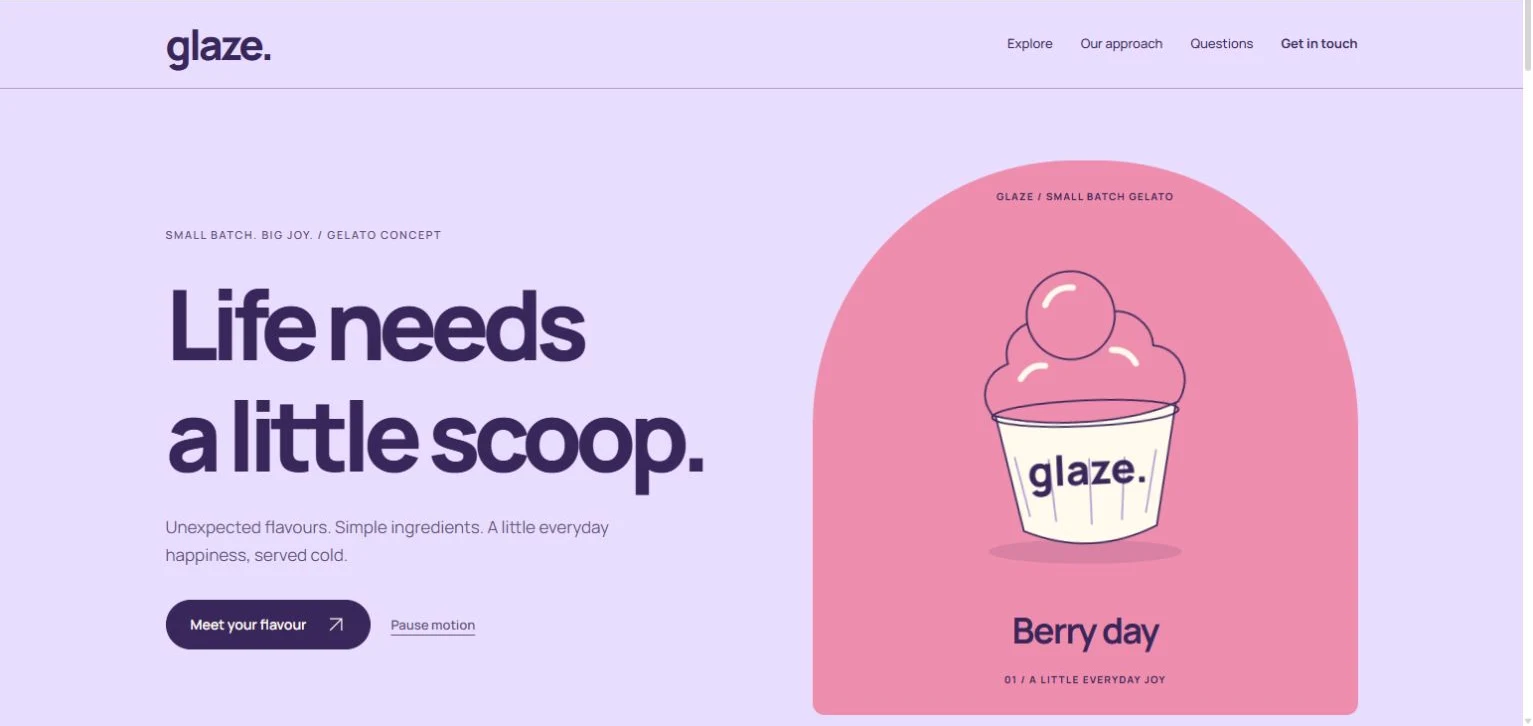
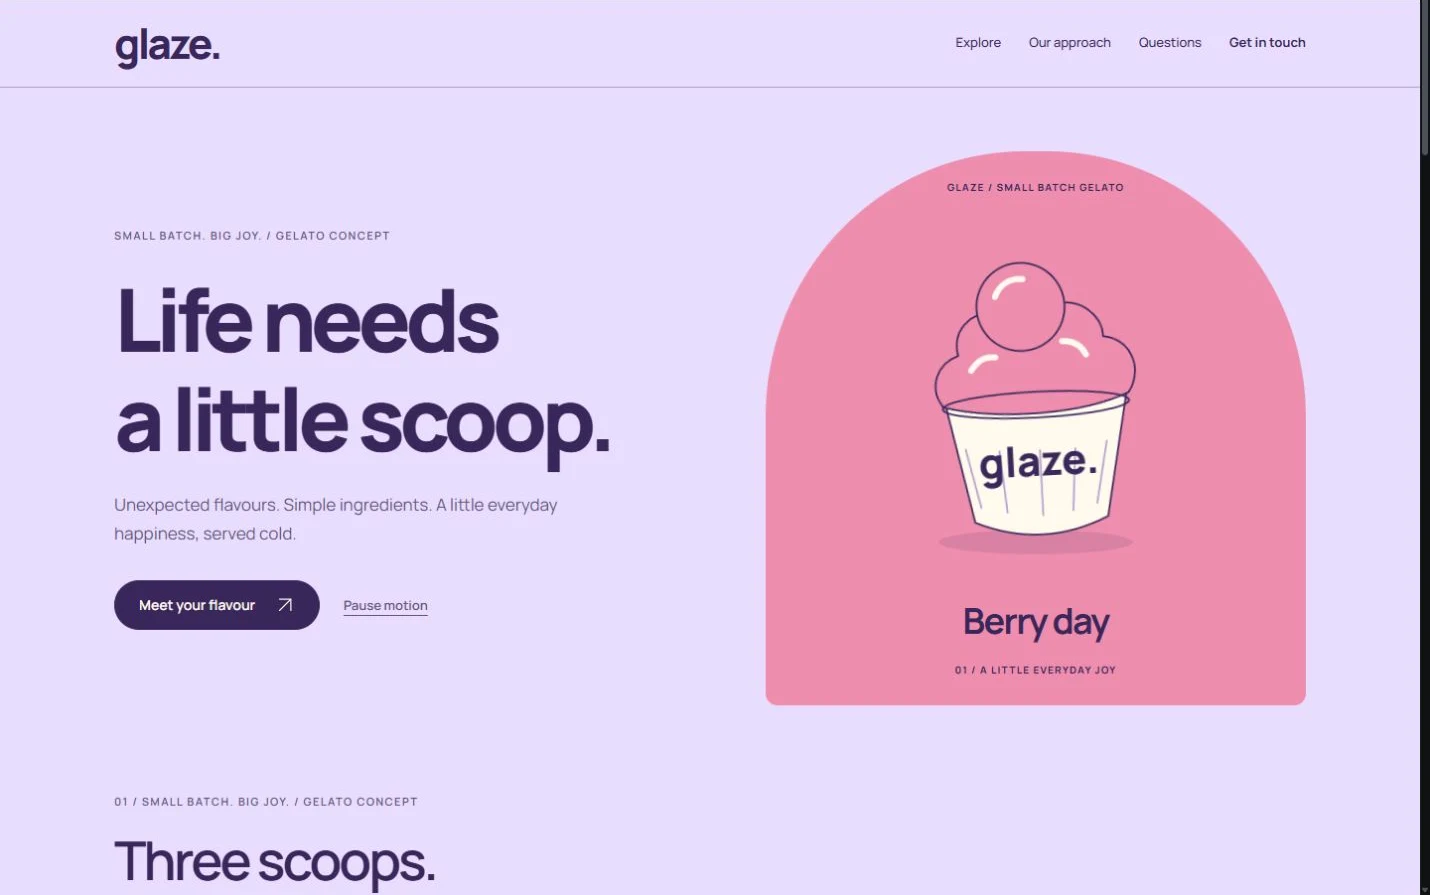
Polish Glaze and Transit spacing and responsive layouts

diff --git a/resources/css/pages/glaze-transit.css b/resources/css/pages/glaze-transit.css
@@ -2,8 +2,8 @@
 .animated-demo.cd-glaze { --ld-bg: #e8ddff; --ld-ink: #39265b; --ld-muted: #66537c; --ld-card: #dcc9f3; --ld-line: #b29ccf; --ld-accent: #39265b; --ld-on-accent: #fff9ee; --ld-hover: #543a7b; --nx-paper: #fff9ee; --nx-flavour: #ee8dad; }
 .animated-demo.cd-transit { --ld-bg: #f2f5f7; --ld-ink: #142d58; --ld-muted: #526783; --ld-card: #e2e9ef; --ld-line: #b7c6d6; --ld-accent: #d8f25b; --ld-on-accent: #142d58; --ld-hover: #e8ff85; --nx-paper: #f9fbff; --nx-navy: #142d58; --nx-muted-inverse: #c5d3e5; --nx-line-inverse: #526783; }
 .animated-demo.cd-glaze .ld-brand { font-size: 42px; font-weight: 800; }
-.animated-demo.cd-glaze .cd-hero { grid-template-columns: 1.1fr 1fr; gap: 48px; padding-block: 72px 96px; }
-.animated-demo.cd-glaze .cd-hero h1 { font-weight: 800; font-size: clamp(56px,7vw,98px); letter-spacing: -.075em; }
+.animated-demo.cd-glaze .cd-hero { grid-template-columns: minmax(0,1.1fr) minmax(0,1fr); gap: clamp(32px,4vw,64px); padding-block: 64px 48px; }
+.animated-demo.cd-glaze .cd-hero h1 { font-weight: 800; font-size: clamp(52px,6.6vw,88px); letter-spacing: -.065em; }
 .nx-gelato { position: relative; overflow: hidden; border-radius: 48% 48% 12px 12px; background: var(--nx-flavour); color: var(--ld-ink); text-align: center; padding: 28px 24px; }
 .nx-flavour-0 { --nx-flavour: #ee8dad; }
 .nx-flavour-1 { --nx-flavour: #b8cf8b; }
@@ -14,28 +14,30 @@
 .nx-flavour-caption { display: block; font-size: clamp(24px,3vw,36px); letter-spacing: -.045em; }
 .nx-gelato-foot { margin-top: 12px; }
 .nx-tasting > :is(h1,h2) { margin-block: 20px 44px; }
-.nx-flavour-cards { display: grid; grid-template-columns: repeat(3,minmax(0,1fr)); gap: 18px; }
-.nx-flavour-cards article { display: flex; flex-direction: column; align-items: start; background: var(--nx-flavour); padding: 30px; color: var(--ld-ink); border-radius: var(--radius-card); }
-.nx-flavour-number { font-size: 64px; line-height: 1.2; font-weight: 800; opacity: .4; }
+.nx-flavour-cards { display: grid; grid-template-columns: repeat(3,minmax(0,1fr)); gap: 24px; }
+.nx-flavour-cards article { min-width: 0; display: flex; flex-direction: column; align-items: start; background: var(--nx-flavour); padding: 32px; color: var(--ld-ink); border-radius: var(--radius-card); }
+.nx-flavour-number { font-size: 52px; line-height: 1.2; font-weight: 800; opacity: .4; }
 .nx-flavour-cards h3 { margin: 20px 0 16px; }
 .nx-flavour-cards p { color: var(--ld-ink); margin-bottom: 28px; }
 .nx-flavour-cards .ld-button { margin-top: auto; border-color: var(--ld-ink); }
 .nx-flavour-cards .ld-button[aria-pressed="true"] { background: var(--ld-ink); color: var(--nx-paper) !important; }
-.nx-tasting-result { display: grid; grid-template-columns: 1fr 1fr; align-items: center; gap: 80px; margin-top: 60px; }
-.nx-tasting-result .nx-gelato { max-width: 460px; }
-.nx-tasting-result h3 { font-size: 42px; margin-block: 18px; }
+.nx-tasting-result { display: grid; grid-template-columns: minmax(0,1fr) minmax(0,1fr); align-items: center; gap: clamp(32px,5vw,72px); margin-top: 48px; padding: 40px; border: 1px solid var(--ld-line); border-radius: var(--radius-card); }
+.nx-tasting-result > div { min-width: 0; }
+.nx-tasting-result .nx-gelato { width: 100%; max-width: 360px; margin-inline: auto; }
+.nx-tasting-result .nx-scoop { max-height: 280px; }
+.nx-tasting-result h3 { font-size: clamp(28px,3.2vw,40px); margin-block: 16px; }
 .nx-tasting-result p { margin-bottom: 28px; max-width: 430px; }
 .animated-demo.cd-glaze .cd-about { border-radius: 80px 80px 0 0; }
 /* Transit uses a horizontal dispatch canvas and an offset, two-column masthead. */
 .animated-demo.cd-transit .ld-brand { letter-spacing: -.06em; font-weight: 800; }
 .animated-demo.cd-transit .ld-button { border-radius: 3px; border-color: var(--ld-ink); }
 .animated-demo.cd-transit .cd-hero { grid-template-columns: 1fr; gap: 48px; padding-block: 64px 48px; }
-.animated-demo.cd-transit .cd-hero-copy { display: grid; grid-template-columns: 1.8fr 1fr; gap: 24px 64px; align-items: start; }
+.animated-demo.cd-transit .cd-hero-copy { display: grid; grid-template-columns: minmax(0,1.7fr) minmax(0,1fr); gap: 24px 56px; align-items: start; }
 .animated-demo.cd-transit .cd-hero-copy > .ld-kicker { grid-column: 1/-1; }
-.animated-demo.cd-transit .cd-hero h1 { grid-row: span 2; font-size: clamp(48px,5.6vw,76px); font-weight: 700; margin: 0; }
+.animated-demo.cd-transit .cd-hero h1 { grid-row: span 2; font-size: clamp(44px,5.2vw,72px); font-weight: 700; margin: 0; }
 .animated-demo.cd-transit .ld-hero-actions { margin-top: 0; gap: 16px; }
 .nx-dispatch { border: 1px solid var(--ld-line); background: var(--ld-card); overflow: hidden; }
-.nx-dispatch-meta, .nx-dispatch-bottom { display: flex; justify-content: space-between; align-items: center; flex-wrap: wrap; gap: 12px; padding: 20px 24px; font-size: 11px; font-weight: 600; letter-spacing: .05em; }
+.nx-dispatch-meta, .nx-dispatch-bottom { display: flex; justify-content: space-between; align-items: center; flex-wrap: wrap; gap: 12px 24px; padding: 20px 28px; font-size: 11px; font-weight: 600; letter-spacing: .05em; }
 .nx-dispatch-meta { background: var(--ld-ink); color: var(--nx-paper); }
 .nx-dispatch svg { width: 100%; display: block; }
 .nx-dispatch-bottom { border-top: 1px solid var(--ld-line); }
@@ -44,20 +46,37 @@
 .nx-mode-1 .nx-cargo { transform: translate(100px,80px); animation-name: nx-ocean; animation-duration: 16s; }
 .nx-mode-2 .nx-cargo { transform: translate(100px,160px); animation-name: nx-warehouse; animation-duration: 10s; }
 .nx-transport > :is(h1,h2) { margin-block: 20px 40px; }
-.nx-transport .nc-options { flex-direction: row; flex-wrap: wrap; gap: 0; border-bottom: 1px solid var(--ld-line); }
-.nx-transport .nc-options .ld-button { flex: 1 1 240px; border-radius: 0; padding-block: 22px; }
+.nx-transport .nc-options { display: grid; grid-template-columns: repeat(3,minmax(0,1fr)); gap: 12px; margin-bottom: 24px; }
+.nx-transport .nc-options .ld-button { min-width: 0; border-radius: 3px; padding: 18px 20px; gap: 16px; }
 .nx-transport .nc-options .ld-button[aria-pressed="true"] { color: var(--ld-ink) !important; border-color: var(--ld-ink); }
-.nx-transport-story { display: flex; align-items: center; justify-content: space-between; gap: 40px; margin-top: 36px; }
+.nx-transport-story { display: flex; align-items: center; justify-content: space-between; gap: 40px; margin-top: 28px; padding: 28px; border: 1px solid var(--ld-line); background: var(--nx-paper); }
 .nx-transport-story > div { max-width: 630px; }
 .nx-transport-story h3 { margin-bottom: 16px; }
 .nx-transport-story > .ld-button { flex-shrink: 0; }
-.animated-demo.cd-transit .cd-about { background: var(--nx-navy); --ld-ink: var(--nx-paper); --ld-muted: var(--nx-muted-inverse); --ld-line: var(--nx-line-inverse); }
+.animated-demo.cd-transit .cd-about { background: var(--nx-navy); color: var(--nx-paper); --ld-ink: var(--nx-paper); --ld-muted: var(--nx-muted-inverse); --ld-line: var(--nx-line-inverse); }
 .animated-demo.cd-transit :is(a,button,input,textarea,summary,[tabindex]):focus-visible { outline-color: var(--ld-ink); }
 .animated-demo.cd-transit { --form-field-focus-ring: 0 0 0 2px var(--ld-ink); }
 .animated-demo.cd-transit :is(input,textarea):focus { border-color: var(--ld-ink); }
-.animated-demo.cd-transit .cd-about .ld-container { display: grid; grid-template-columns: 1fr 1fr; gap: 28px 64px; }
+.animated-demo.cd-transit .cd-about .ld-container { display: grid; grid-template-columns: minmax(0,1fr) minmax(0,1fr); gap: 28px 56px; }
 .animated-demo.cd-transit .cd-about .ld-kicker, .animated-demo.cd-transit .cd-principles { grid-column: 1/-1; }
 .animated-demo.cd-transit .cd-about :is(h1,h2) { margin: 0; }
+/* A consistent section rhythm, scoped to these two identities. */
+.animated-demo:is(.cd-glaze,.cd-transit) { --nx-section-space: clamp(56px,6vw,80px); }
+.animated-demo:is(.cd-glaze,.cd-transit) :is(.ld-section,.cd-about,.ld-contact) { padding-block: var(--nx-section-space); }
+.animated-demo:is(.cd-glaze,.cd-transit) .cd-hero + .ld-section { padding-top: 40px; }
+.animated-demo:is(.cd-glaze,.cd-transit) .cd-hero-copy > p { line-height: 1.7; }
+.animated-demo:is(.cd-glaze,.cd-transit) :is(.nx-tasting,.nx-transport,.cd-about,.cd-questions,.ld-contact) h1 { font-size: clamp(32px,4.2vw,54px); }
+.animated-demo:is(.cd-glaze,.cd-transit) .ld-hero-actions { gap: 12px 24px; }
+.animated-demo:is(.cd-glaze,.cd-transit) .cd-motion-toggle { min-height: 44px; }
+.animated-demo:is(.cd-glaze,.cd-transit) .cd-principles { margin-top: 36px; padding-top: 24px; }
+.animated-demo:is(.cd-glaze,.cd-transit) .cd-principles > span { min-width: 0; gap: 12px; }
+.animated-demo:is(.cd-glaze,.cd-transit) :is(.cd-questions,.ld-contact-grid) { gap: clamp(32px,5vw,64px); }
+.animated-demo:is(.cd-glaze,.cd-transit) .cd-questions summary { padding-block: 16px; gap: 20px; }
+.animated-demo:is(.cd-glaze,.cd-transit) .cd-questions details p { padding-right: 32px; line-height: 1.7; }
+.animated-demo:is(.cd-glaze,.cd-transit) .ld-form-card { padding: 32px; }
+.animated-demo:is(.cd-glaze,.cd-transit) .cd-footer { padding-block: 48px 24px; }
+.animated-demo:is(.cd-glaze,.cd-transit) .cd-wordmark { margin-block: 20px 28px; }
+.animated-demo.cd-transit .cd-about p { font-size: 18px; line-height: 1.7; }
 @media (hover: hover) and (pointer: fine) {
   .nx-flavour-cards .ld-button:not(:disabled):hover { background: var(--ld-ink); color: var(--nx-paper) !important; }
   .nx-transport .nc-options .ld-button[aria-pressed="false"]:not(:disabled):hover { background: var(--ld-card); color: var(--ld-ink) !important; }
@@ -69,24 +88,45 @@
 @media (max-width: 1000px) {
   .nx-flavour-cards article { padding: 24px; }
   .nx-tasting-result { gap: 40px; }
-  .animated-demo.cd-transit .cd-hero-copy { grid-template-columns: 1.4fr 1fr; gap: 24px 32px; }
+  .animated-demo.cd-transit .cd-hero-copy { grid-template-columns: minmax(0,1.4fr) minmax(0,1fr); gap: 24px 32px; }
+  .nx-tasting-result { padding: 28px; }
+  .nx-transport-story { flex-wrap: wrap; }
+}
+@media (min-width: 701px) and (max-width: 900px) {
+  .animated-demo.cd-glaze .cd-hero, .animated-demo.cd-transit .cd-hero-copy { grid-template-columns: 1fr; }
+  .animated-demo.cd-glaze .cd-hero > .cd-art { width: min(100%,480px); margin-inline: auto; }
+  .animated-demo.cd-transit .cd-hero h1 { grid-row: auto; }
+  .nx-flavour-cards { gap: 16px; }
+  .nx-flavour-cards article { padding: 20px; }
+  .nx-flavour-cards h3 { font-size: 24px; }
+  .nx-flavour-cards .ld-button { width: 100%; padding-inline: 12px; }
+  .nx-transport .nc-options .ld-button { flex-direction: column; align-items: start; gap: 8px; }
 }
 @media (max-width: 700px) {
-  .animated-demo.cd-glaze .cd-hero { grid-template-columns: 1fr; padding-block: 40px 56px; gap: 32px; }
-  .animated-demo.cd-glaze .cd-hero h1 { font-size: clamp(44px,12vw,68px); }
+  .animated-demo.cd-glaze .cd-hero { grid-template-columns: 1fr; padding-block: 36px 32px; gap: 32px; }
+  .animated-demo.cd-glaze .cd-hero h1 { font-size: clamp(40px,10.5vw,64px); }
   .nx-gelato { max-width: 460px; margin-inline: auto; }
   .nx-flavour-cards, .nx-tasting-result { grid-template-columns: 1fr; }
   .nx-flavour-cards article { padding: 28px; }
   .nx-flavour-cards .nx-flavour-number { font-size: 48px; }
-  .nx-tasting-result { gap: 28px; }
+  .nx-tasting-result { gap: 28px; padding: 24px; margin-top: 32px; }
+  .nx-tasting-result .nx-gelato { max-width: 320px; padding: 24px 16px; }
+  .nx-tasting-result .nx-scoop { max-height: 240px; }
   .animated-demo.cd-glaze .cd-about { border-radius: 36px 36px 0 0; }
   .animated-demo.cd-transit .cd-hero-copy, .animated-demo.cd-transit .cd-about .ld-container { grid-template-columns: 1fr; gap: 24px; }
   .animated-demo.cd-transit .cd-hero h1 { font-size: clamp(40px,10vw,64px); }
   .animated-demo.cd-transit .cd-hero { padding-block: 40px; gap: 32px; }
   .nx-dispatch-meta, .nx-dispatch-bottom { padding: 16px; font-size: 10px; }
+  .nx-dispatch svg { height: clamp(180px,48vw,260px); }
   .nx-dispatch-bottom strong { flex-basis: 100%; order: -1; }
-  .nx-transport-story { flex-direction: column; align-items: start; gap: 24px; }
-  .nx-transport .nc-options .ld-button { flex-basis: 100%; }
+  .nx-transport-story { flex-direction: column; align-items: start; gap: 24px; padding: 24px; }
+  .nx-transport .nc-options { grid-template-columns: 1fr; gap: 10px; }
+  .nx-transport .nc-options .ld-button { padding: 16px 20px; }
+  .animated-demo:is(.cd-glaze,.cd-transit) { --nx-section-space: 48px; }
+  .animated-demo:is(.cd-glaze,.cd-transit) .cd-hero + .ld-section { padding-top: 24px; }
+  .animated-demo:is(.cd-glaze,.cd-transit) .ld-form-card { padding: 24px; }
+  .animated-demo:is(.cd-glaze,.cd-transit) .cd-principles { margin-top: 28px; }
+  .animated-demo:is(.cd-glaze,.cd-transit) .cd-footer { padding-block: 36px 24px; }
 }
 @media (prefers-reduced-motion: reduce) {
   .nx-cup-float, .nx-cargo { animation: none; }

diff --git a/resources/js/Pages/AnimatedDemo.tsx b/resources/js/Pages/AnimatedDemo.tsx
@@ -83,7 +83,7 @@ export default function AnimatedDemo({ design, section = 'home' }: { design: Ani
 
   return <><Head title={`${data.brand} — ${shell.demo}`}><meta name="robots" content="noindex, nofollow"/></Head><div className="ld-preview-bar"><a className="ld-preview-brand" href={back}>I&I Studio <span>/ {shell.demo} · {design}</span></a><a className="btn btn-secondary btn-sm" href={back}>{shell.back}</a><a className="btn btn-primary btn-sm" href={localizedUrl(`/inquiry?service=${data.service}&design=${design}`, language)}>{copy.choose}</a><p className="cd-preview-note">{copy.note}</p></div>
     <div ref={root} className={`landing-demo animated-demo cd-${design}${paused ? ' cd-paused' : ''}`}><a className="ld-skip" href="#demo-main">{shell.skip}</a><header className="ld-header"><div className="ld-container ld-header-inner" ref={navigation}>{business ? <Link className="ld-brand" href={url()}>{data.brand}</Link> : <a className="ld-brand" href="#demo-main">{data.brand}</a>}<button ref={menuButton} className="ld-button ld-secondary ld-menu-button" aria-expanded={menu} aria-controls="cd-navigation" onClick={() => setMenu(!menu)}>{menu ? shell.close : shell.menu}<svg viewBox="0 0 24 24" width="22" height="22" fill="none" stroke="currentColor" aria-hidden="true"><path d={menu ? 'm6 6 12 12M6 18 18 6' : 'M4 8h16M4 16h16'}/></svg></button><nav id="cd-navigation" className={`ld-nav${menu ? ' is-open' : ''}`} aria-label={shell.menu}>{labels.map((_, i) => <span key={i}>{navLink(i)}</span>)}</nav></div></header>
-      <main id="demo-main" ref={main} tabIndex={-1}>{section === 'home' ? <><section className="ld-container cd-hero"><div className="cd-hero-copy"><span className="ld-kicker">{t(data.label)}</span><h1>{t(data.title)}</h1><p>{t(data.intro)}</p><div className="ld-hero-actions">{cta}<button className="ld-text-link cd-motion-toggle" aria-pressed={paused} onClick={() => setPaused(!paused)}>{paused ? t(['Play motion', 'Увімкнути анімацію', 'Pornește animația']) : t(['Pause motion', 'Зупинити анімацію', 'Oprește animația'])}</button></div></div>{art}{design === 'rally' && <div className="cd-event-meta"><span>02 DAYS / 03 TRACKS</span><span>{t(['DESIGN / CULTURE / CONNECTION', 'ДИЗАЙН / КУЛЬТУРА / ЗНАЙОМСТВА', 'DESIGN / CULTURĂ / CONEXIUNI'])}</span></div>}</section>{design === 'rally' && <div className="cd-marquee" aria-hidden="true"><div>{[0,1,2,3].map(i => <span key={i}>IDEAS INTO ACTION / PEOPLE INTO COMMUNITY / </span>)}</div></div>}{explore}{about}{questions}{contact}</> : section === 'collection' ? explore : section === 'about' ? about : section === 'journal' ? questions : contact}</main>
+      <main id="demo-main" ref={main} tabIndex={-1}>{section === 'home' ? <><section className="ld-container cd-hero"><div className="cd-hero-copy"><span className="ld-kicker">{t(data.label)}</span><h1>{t(data.title)}</h1><p>{t(data.intro)}</p><div className="ld-hero-actions">{design === 'glaze' ? <a className="ld-button" href="#explore">{t(data.action)}<Arrow/></a> : cta}<button className="ld-text-link cd-motion-toggle" aria-pressed={paused} onClick={() => setPaused(!paused)}>{paused ? t(['Play motion', 'Увімкнути анімацію', 'Pornește animația']) : t(['Pause motion', 'Зупинити анімацію', 'Oprește animația'])}</button></div></div>{art}{design === 'rally' && <div className="cd-event-meta"><span>02 DAYS / 03 TRACKS</span><span>{t(['DESIGN / CULTURE / CONNECTION', 'ДИЗАЙН / КУЛЬТУРА / ЗНАЙОМСТВА', 'DESIGN / CULTURĂ / CONEXIUNI'])}</span></div>}</section>{design === 'rally' && <div className="cd-marquee" aria-hidden="true"><div>{[0,1,2,3].map(i => <span key={i}>IDEAS INTO ACTION / PEOPLE INTO COMMUNITY / </span>)}</div></div>}{explore}{about}{questions}{contact}</> : section === 'collection' ? explore : section === 'about' ? about : section === 'journal' ? questions : contact}</main>
       <footer className="cd-footer"><div className="ld-container"><span className="ld-kicker">{shell.sample}</span><a className="cd-wordmark" href={business ? url() : '#demo-main'}>{data.brand}</a><div className="cd-footer-bottom"><nav aria-label={t(['Footer navigation', 'Навігація внизу', 'Navigare în subsol'])}>{labels.map((_, i) => <span key={i}>{navLink(i)}</span>)}</nav><a className="ld-text-link" href="#demo-main">{t(['Back to top', 'На початок', 'Înapoi sus'])}<Arrow/></a></div></div></footer>
     </div></>;
 }

diff --git a/resources/js/content/websiteDesigns.ts b/resources/js/content/websiteDesigns.ts
@@ -86,7 +86,7 @@ export function designText(values: [string, string, string], language: string): 
 }
 
 export function designImage(id: string): string {
-  const revision = ['bento', 'signal', 'prism', 'cobalt', 'maison', 'haven'].includes(id) ? '?v=20261007-2' : '';
+  const revision = ['glaze', 'transit'].includes(id) ? '?v=20261010-2' : ['bento', 'signal', 'prism', 'cobalt', 'maison', 'haven'].includes(id) ? '?v=20261007-2' : '';
   return `/images/design-previews/${id}.webp${revision}`;
 }
 
